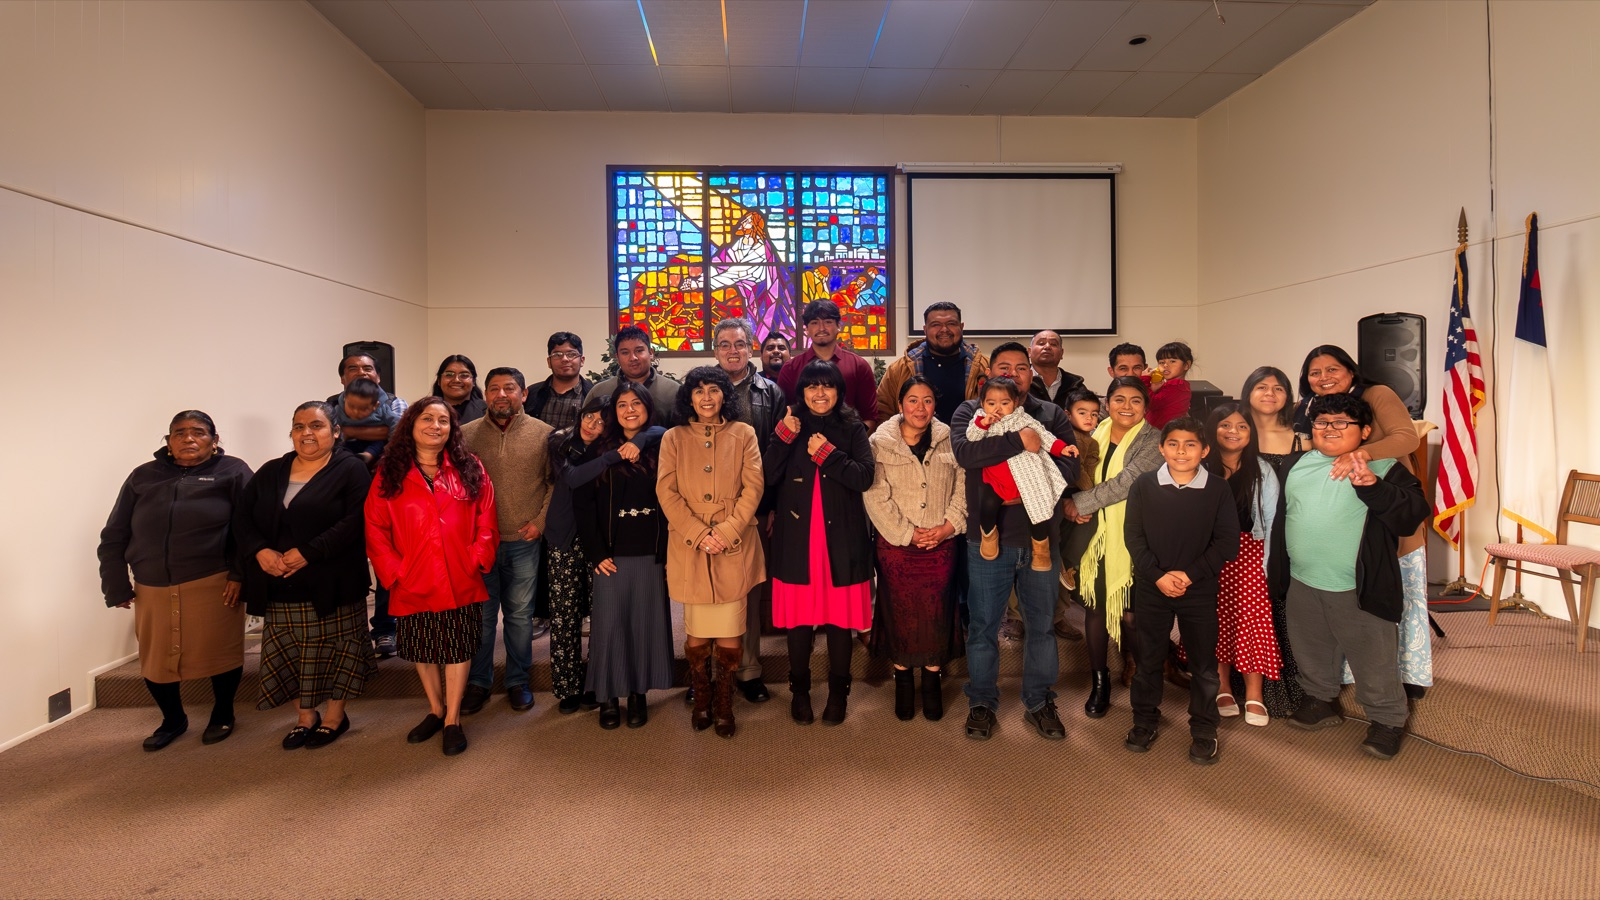
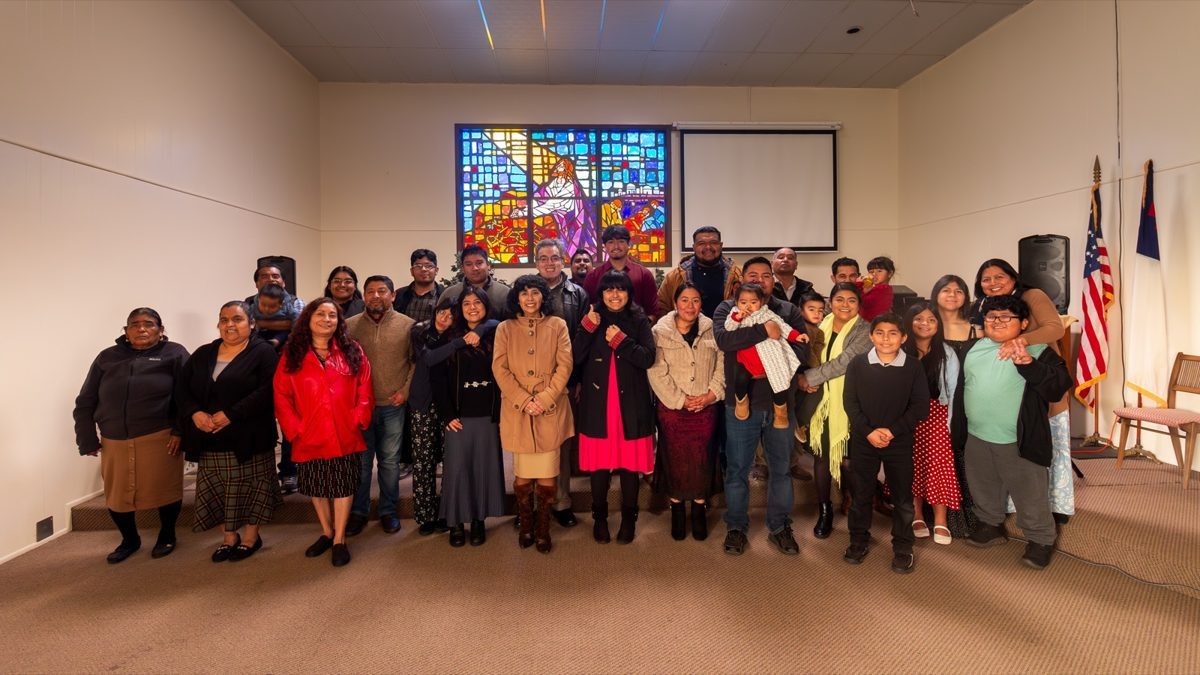
Clean up unused files and code, add security headers
- Remove unused images (logo.jpg, transparent-logo.png) and tracked .DS_Store
- Remove dead CSS (.collage-badge, .value-bullet, --space-xl, redundant hover) and empty divs
- Remove ignored meta keywords tag
- Resize oversized images (church-cover5, group, logo/favicon)
- Hero height now uses the measured nav height
- Wrap content in <main>; skip link now targets it
- Add security headers in netlify.toml

Claude-Session: https://claude.ai/code/session_01QqGGxZx7Y9ok5CakRLVmF8

Changed region(s): [[0.37, 0.1867, 0.555, 0.4044], [0.7708, 0.6844, 0.8017, 0.7467]]

diff --git a/index.html b/index.html
@@ -7,7 +7,6 @@
 <!-- Primary SEO -->
 <title>Iglesia de Dios Pentecostal M.I. Soledad | Church in Soledad, CA</title>
 <meta name="description" content="Iglesia de Dios Pentecostal M.I. Soledad — a Spanish-speaking Christian church in Soledad, California. Join us for Sunday service, Wednesday prayer, and Bible study. Todos son bienvenidos." />
-<meta name="keywords" content="Soledad church, iglesia en Soledad, Soledad Christian church, Pentecostal church Soledad CA, iglesia cristiana Soledad California, Iglesia de Dios Pentecostal M.I." />
 <link rel="canonical" href="https://iddpmisoledad.netlify.app/" />
 
 <!-- Open Graph (Facebook, WhatsApp link previews) -->
@@ -66,7 +65,6 @@
     --space-sm: 1rem;
     --space-md: 1.5rem;
     --space-lg: 2rem;
-    --space-xl: 2.5rem;
     --space-2xl: 3rem;
     --space-3xl: 4rem;
     --space-4xl: 5rem;
@@ -165,10 +163,6 @@
     transition: transform 0.3s;
   }
 
-  .nav-links a:hover {
-    color: var(--red);
-  }
-
   .nav-links a:hover::after {
     transform: scaleX(1);
   }
@@ -215,7 +209,7 @@
   /* HERO SECTION                                                    */
   /* ═══════════════════════════════════════════════════════════════ */
   #home {
-    height: calc(100vh - 140px);
+    height: calc(100vh - var(--nav-height, 140px));
     min-height: 760px;
     margin-top: var(--nav-height, 140px);
     position: relative;
@@ -667,10 +661,6 @@
     transform: translateY(-2px);
   }
 
-  .value-bullet {
-    display: none;
-  }
-
   .value-item strong {
     font-family: 'Playfair Display', serif;
     font-size: 1rem;
@@ -1066,7 +1056,7 @@
     nav .logo-img { width: 56px; }
     .nav-links { flex-wrap: wrap; gap: 16px; margin-top: 16px; }
     nav:not(.menu-ready) { position: static; }
-    nav:not(.menu-ready) + #home { margin-top: 0; }
+    nav:not(.menu-ready) + main #home { margin-top: 0; }
 
     .menu-ready .nav-links {
       display: none;
@@ -1106,10 +1096,6 @@
 
     .collage-frame {
       display: none;
-    }
-
-    .collage-badge {
-      right: 0;
     }
 
     .contact-inner {
@@ -1194,7 +1180,7 @@
 <body>
 
 <!-- NAV -->
-<a class="skip-link" href="#home">Saltar al contenido</a>
+<a class="skip-link" href="#main">Saltar al contenido</a>
 <nav id="navbar" aria-label="Navegación principal">
   <a href="#home" class="nav-logo">
     <img src="img/churchlogo-removebg-preview.png" alt="Logo de IDDPMI Soledad" class="logo-img">
@@ -1212,8 +1198,10 @@
   </button>
 </nav>
 
+<main id="main" tabindex="-1">
+
 <!-- HERO -->
-<section id="home" tabindex="-1">
+<section id="home">
   <div class="hero-bg"></div>
   <div class="hero-overlay"></div>
   <div class="hero-content">
@@ -1309,15 +1297,12 @@
 
     <div class="about-values reveal">
       <a href="https://www.biblegateway.com/passage/?search=Deuteronomio%2032%3A4&version=RVR1960" target="_blank" rel="noopener" class="value-item">
-        <div class="value-bullet"></div>
         <div><strong>Un Dios Santo</strong><span>Creemos en un Dios santo, fiel, justo y misericordioso.</span><cite>Deuteronomio 32:4 →</cite></div>
       </a>
       <a href="https://www.biblegateway.com/passage/?search=Mateo%2028%3A19&version=RVR1960" target="_blank" rel="noopener" class="value-item">
-        <div class="value-bullet"></div>
         <div><strong>La Santa Trinidad</strong><span>Creemos en el Padre, Hijo y Espíritu Santo como uno, en la comunión con los santos en cada servicio.</span><cite>Mateo 28:19 →</cite></div>
       </a>
       <a href="https://www.biblegateway.com/passage/?search=Mateo%205%3A16&version=RVR1960" target="_blank" rel="noopener" class="value-item">
-        <div class="value-bullet"></div>
         <div><strong>Testimonio Vivo</strong><span>Creemos que como hijos de Dios, nuestro propósito es enseñarle al mundo con nuestro carácter y comportamiento que Dios ha transformado nuestras vidas.</span><cite>Mateo 5:16 →</cite></div>
       </a>
     </div>
@@ -1443,6 +1428,8 @@
     </form>
   </div>
 </section>
+
+</main>
 
 <!-- FOOTER -->
 <footer>
